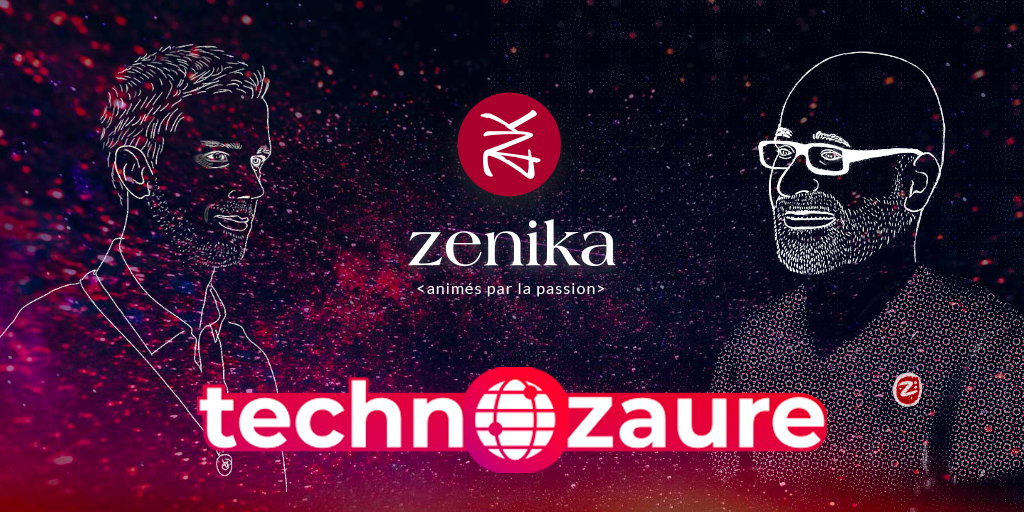
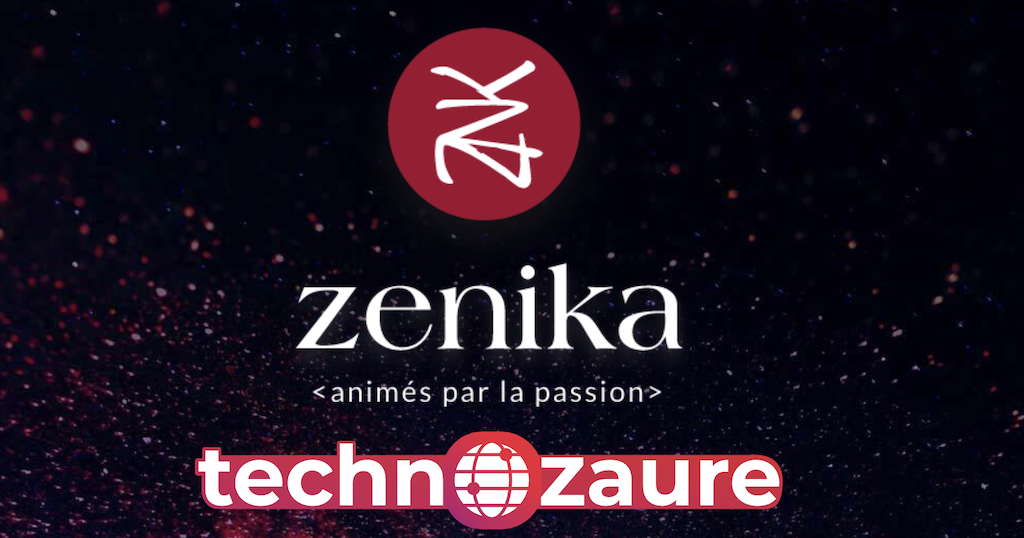
:memo: work about TZ Nantes 2021 #2

diff --git a/src/template.html b/src/template.html
@@ -6,50 +6,50 @@
     <meta name="theme-color" content="#0F0E0E" />
     <meta
       name="description"
-      content="La conférence interne par (et pour) les collaborateurs et collaboratrices de Zenika : 3 time zones, 80 talks, 15 workshops."
+      content="La conférence interne par (et pour) les collaborateurs et collaboratrices de Zenika."
     />
 
     %sapper.base%
 
     <!-- Google / Search Engine Tags -->
-    <meta itemprop="name" content="Technozaure World 2021 par Zenika" />
+    <meta itemprop="name" content="Technozaure par Zenika" />
     <meta
       itemprop="description"
-      content="La conférence interne par (et pour) les collaborateurs et collaboratrices de Zenika : 3 time zones, 80 talks, 15 workshops."
+      content="La conférence interne par (et pour) les collaborateurs et collaboratrices de Zenika"
     />
     <meta
       itemprop="image"
-      content="https://tz.zenika.com/images/technozaure.png"
+      content="https://tz-nantes.zenika.com/images/technozaure.png"
     />
 
     <!-- Facebook Meta Tags -->
-    <meta property="og:url" content="https://tz.zenika.com/" />
+    <meta property="og:url" content="https://tz-nantes.zenika.com/" />
     <meta property="og:type" content="website" />
-    <meta property="og:title" content="Technozaure World 2021 par Zenika" />
+    <meta property="og:title" content="Technozaure par Zenika" />
     <meta
       property="og:description"
-      content="La conférence interne par (et pour) les collaborateurs et collaboratrices de Zenika : 3 time zones, 80 talks, 15 workshops."
+      content="La conférence interne par (et pour) les collaborateurs et collaboratrices de Zenika"
     />
     <meta
       property="og:image"
-      content="https://tz.zenika.com/images/technozaure.png"
+      content="https://tz-nantes.zenika.com/images/technozaure.png"
     />
 
     <!-- Twitter Meta Tags -->
     <meta name="twitter:card" content="summary_large_image" />
-    <meta name="twitter:site" content="@ZenikaIT" />
-    <meta name="twitter:title" content="Technozaure World 2021 par Zenika" />
+    <meta name="twitter:site" content="@ZenikaNantes" />
+    <meta name="twitter:title" content="Technozaure par Zenika" />
     <meta
       name="twitter:description"
-      content="La conférence interne par (et pour) les collaborateurs et collaboratrices de Zenika : 3 time zones, 80 talks, 15 workshops."
+      content="La conférence interne par (et pour) les collaborateurs et collaboratrices de Zenika"
     />
     <meta
       name="twitter:image"
-      content="https://tz.zenika.com/images/technozaure.png"
+      content="https://tz-nantes.zenika.com/images/technozaure.png"
     />
     <meta
       name="twitter:image:alt"
-      content="La conférence interne par (et pour) les collaborateurs et collaboratrices de Zenika : 3 time zones, 80 talks, 15 workshops."
+      content="La conférence interne par (et pour) les collaborateurs et collaboratrices de Zenika"
     />
 
     <link rel="stylesheet" href="global.css" />
